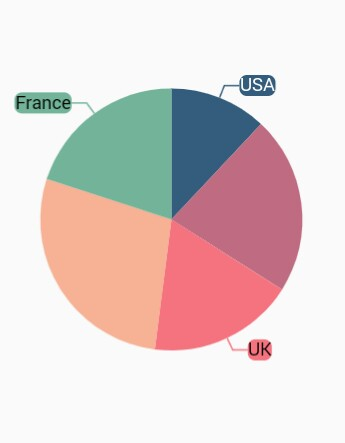
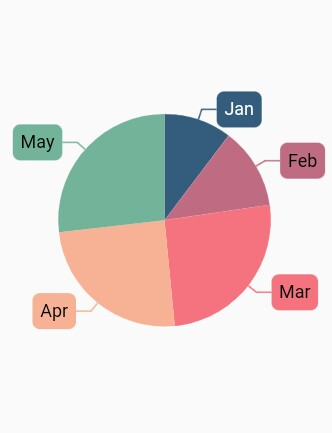
Committed UG changes

Changed region(s): [[0.0301, 0.1501, 0.994, 0.8406]]

diff --git a/Flutter/chart/legend.md b/Flutter/chart/legend.md
@@ -81,7 +81,7 @@ The [`name`](https://pub.dev/documentation/syncfusion_flutter_charts/latest/char
 
 ![Customized Legend](images/legend/customized_legend.jpg)
 
-### Legend title
+## Legend title
 
 The following properties are used to define and customize the [`title`](https://pub.dev/documentation/syncfusion_flutter_charts/latest/charts/Legend/title.html) of [`legend`](https://pub.dev/documentation/syncfusion_flutter_charts/latest/charts/SfCircularChart/legend.html).
 
@@ -134,7 +134,7 @@ The following properties are used to define and customize the [`title`](https://
 
 ![Legend title](images/legend/legend_title.jpg)
 
-### Toggles the series visibility
+## Toggles the series visibility
 
 You can control the visibility of the series by tapping the legend item. You can enable this feature by enabling the [`toggleSeriesVisibility`](https://pub.dev/documentation/syncfusion_flutter_charts/latest/charts/Legend/toggleSeriesVisibility.html) property.
 
@@ -165,7 +165,7 @@ You can control the visibility of the series by tapping the legend item. You can
 
 {% endhighlight %}
 
-### Legend visibility
+## Legend visibility
 
 The [`isVisible`](https://pub.dev/documentation/syncfusion_flutter_charts/latest/charts/Legend/isVisible.html) property of [`legend`](https://pub.dev/documentation/syncfusion_flutter_charts/latest/charts/SfCircularChart/legend.html) is used to toggle the visibility of legend.
 
@@ -195,7 +195,7 @@ The [`isVisible`](https://pub.dev/documentation/syncfusion_flutter_charts/latest
 
 {% endhighlight %}
 
-### Legend item visibility
+## Legend item visibility
 
 You can control the visibility of a particular series legend item using the [`isVisibleInLegend`](https://pub.dev/documentation/syncfusion_flutter_charts/latest/charts/CartesianSeries/isVisibleInLegend.html) property of series. The default value of the [`isVisibleInLegend`](https://pub.dev/documentation/syncfusion_flutter_charts/latest/charts/CartesianSeries/isVisibleInLegend.html) property is *true*. If it is set to false, then the legend item for this specific series will not be displayed in the legend.
 
@@ -234,7 +234,7 @@ You can control the visibility of a particular series legend item using the [`is
 
 ![Legend isVisibleInLegend](images/legend/toggle_visibility.jpg)
 
-### Legend overflow
+## Legend overflow
 
 The legend items can be placed in multiple rows or scroll can be enabled using the [`overflowMode`](https://pub.dev/documentation/syncfusion_flutter_charts/latest/charts/Legend/overflowMode.html) property if size of the total legend items exceeds the available size. The default value of the [`overflowMode`](https://pub.dev/documentation/syncfusion_flutter_charts/latest/charts/Legend/overflowMode.html) property is [`scroll`](https://pub.dev/documentation/syncfusion_flutter_charts/latest/charts/LegendItemOverflowMode-class.html).
 
@@ -268,7 +268,7 @@ The legend items can be placed in multiple rows or scroll can be enabled using t
 ![Legend](images/legend/overflow_wrap.jpg))
 
 
-### Positioning the legend
+## Positioning the legend
 
 You can change the position of the legend inside the chart. The following properties are used to customize the position of legend. **auto** position will place the legend at the right, if the chart's width is greater than the chart's height. Else the legend will be placed at the bottom position.
 
@@ -304,7 +304,7 @@ You can change the position of the legend inside the chart. The following proper
 
 ![Legend](images/legend/legend_position.jpg))
 
-### Legend item template
+## Legend item template
 
 You can customize the appearance of legend items with your template by using [`legendItemBuilder`](https://pub.dev/documentation/syncfusion_flutter_charts/latest/charts/Legend/legendItemBuilder.html) property of [`legend`](https://pub.dev/documentation/syncfusion_flutter_charts/latest/charts/SfCartesianChart/legend.html. Here you can specify the content that needs to be displayed in the legend text as widget.
 

diff --git a/Flutter/chart/axis-types.md b/Flutter/chart/axis-types.md
@@ -326,7 +326,19 @@ To display the labels after a fixed interval n, set the [`interval`](https://pub
 
 Category axis also can be rendered based on the index values of data source by setting the [`arrangeByIndex`](https://pub.dev/documentation/syncfusion_flutter_charts/latest/charts/CategoryAxis/arrangeByIndex.html) property to true in the axis.
 
-{% highlight dart %} 
+{% highlight dart %}
+
+    final List<ChartData> chartData = [
+        ChartData('John', 10),
+        ChartData('David', 9),
+        ChartData('Brit', 10),
+    ];
+
+    final List<ChartData> chartData2 = [
+        ChartData('Anto', 11),
+        ChartData('Peter', 12),
+        ChartData('Parker', 8),
+    ];
 
     @override
     Widget build(BuildContext context) {
@@ -336,7 +348,19 @@ Category axis also can be rendered based on the index values of data source by s
                     child: SfCartesianChart(
                         primaryXAxis: CategoryAxis(
                             arrangeByIndex: true
-                        )
+                        ),
+                        series: <ChartSeries<ChartData, String>>[
+                            ColumnSeries<ChartData, String>(
+                                dataSource: chartData,
+                                xValueMapper: (ChartData sales, _) => sales.x,
+                                yValueMapper: (ChartData sales, _) => sales.y,
+                            ),
+                            ColumnSeries<ChartData, String>(
+                                dataSource: chartData2,
+                                xValueMapper: (ChartData sales, _) => sales.x,
+                                yValueMapper: (ChartData sales, _) => sales.y,
+                            )
+                        ]
                     )
                 )
             )

diff --git a/Flutter/chart/axis-customization.md b/Flutter/chart/axis-customization.md
@@ -427,7 +427,7 @@ By default, a maximum of 3 labels are displayed for each 100 logical pixels in a
 
 ### Visible minimum
 
-The [`visibleMinimum`](https://pub.dev/documentation/syncfusion_flutter_charts/latest/charts/NumericAxis/visibleMinimum.html) property is used to set the minimum visible range of an axis.
+The [`visibleMinimum`](https://pub.dev/documentation/syncfusion_flutter_charts/latest/charts/NumericAxis/visibleMinimum.html) property is used to set the minimum visible range of an axis. When panning is enabled, you can pan to the actual minimum range of an axis.
 
 {% highlight dart %} 
 
@@ -448,9 +448,11 @@ The [`visibleMinimum`](https://pub.dev/documentation/syncfusion_flutter_charts/l
 
 {% endhighlight %}
 
+Also refer [minimum](./axis-types) and [maximum](./axis-types) range of an axis.
+
 ### Visible maximum
 
-The [`visibleMaximum`](https://pub.dev/documentation/syncfusion_flutter_charts/latest/charts/NumericAxis/visibleMaximum.html) property is used to set the minimum visible range of an axis.
+The [`visibleMaximum`](https://pub.dev/documentation/syncfusion_flutter_charts/latest/charts/NumericAxis/visibleMaximum.html) property is used to set the minimum visible range of an axis.When panning is enabled, you can pan to the actual maximum range of an axis.
 
 {% highlight dart %} 
 

diff --git a/Flutter/chart/marker-datalabel.md b/Flutter/chart/marker-datalabel.md
@@ -292,14 +292,14 @@ The [`useSeriesColor`](https://pub.dev/documentation/syncfusion_flutter_charts/l
                     child:SfCircularChart(
                         series: <CircularSeries>[
                             PieSeries<ChartData, double>(
-                                enableSmartLabels: true,
                                 dataSource: chartData,
                                 xValueMapper: (ChartData data, _) => data.x,
                                 yValueMapper: (ChartData data, _) => data.y,
-                                dataValueMapper: (ChartData data, _) => data.x,
+                                dataLabelMapper: (ChartData data, _) => data.x,
                                 dataLabelSettings: DataLabelSettings(
                                     isVisible: true, 
-                                    labelPosition: LabelPosition.outside
+                                    labelPosition: LabelPosition.outside,
+                                    useSeriesColor: true
                                 )
                             )
                         ]

diff --git a/Flutter/system-requirement-installation/system-requirements.md b/Flutter/system-requirement-installation/system-requirements.md
@@ -18,6 +18,10 @@ Refer to the following links for recommended development environment in Flutter.
 * MacOS - [`https://flutter.dev/docs/get-started/install/macos`](https://flutter.dev/docs/get-started/install/macos)
 * Linux - [`https://flutter.dev/docs/get-started/install/linux`](https://flutter.dev/docs/get-started/install/linux)
 
+### SDK Version
+
+The minimum Flutter SDK version required for our component is [`v1.7.8`](https://flutter.dev/docs/development/tools/sdk/releases)
+
 ### Supported Platforms
 
 The following table lists the platforms supported by our Flutter controls.

diff --git a/Flutter/chart/series-customization.md b/Flutter/chart/series-customization.md
@@ -53,7 +53,7 @@ The [`isTransposed`](https://pub.dev/documentation/syncfusion_flutter_charts/lat
                         isTransposed: true,
                         primaryXAxis: CategoryAxis(),
                         series: <CartesianSeries>[
-                            ColumnSeries<ChartData, String>(
+                            SplineSeries<ChartData, String>(
                                 dataSource: chartData,
                                 xValueMapper: (ChartData data, _) => data.x,
                                 yValueMapper: (ChartData data, _) => data.y,

diff --git a/Flutter/chart/methods.md b/Flutter/chart/methods.md
@@ -779,8 +779,8 @@ The [`reset`](https://pub.dev/documentation/syncfusion_flutter_charts/latest/cha
     );
   }
 
-    void zoom() {
-        zooming.zoomByFactor(0.5);
-    }
+  void zoom() {
+    zooming.reset();
+  }
 
 {% endhighlight %}
